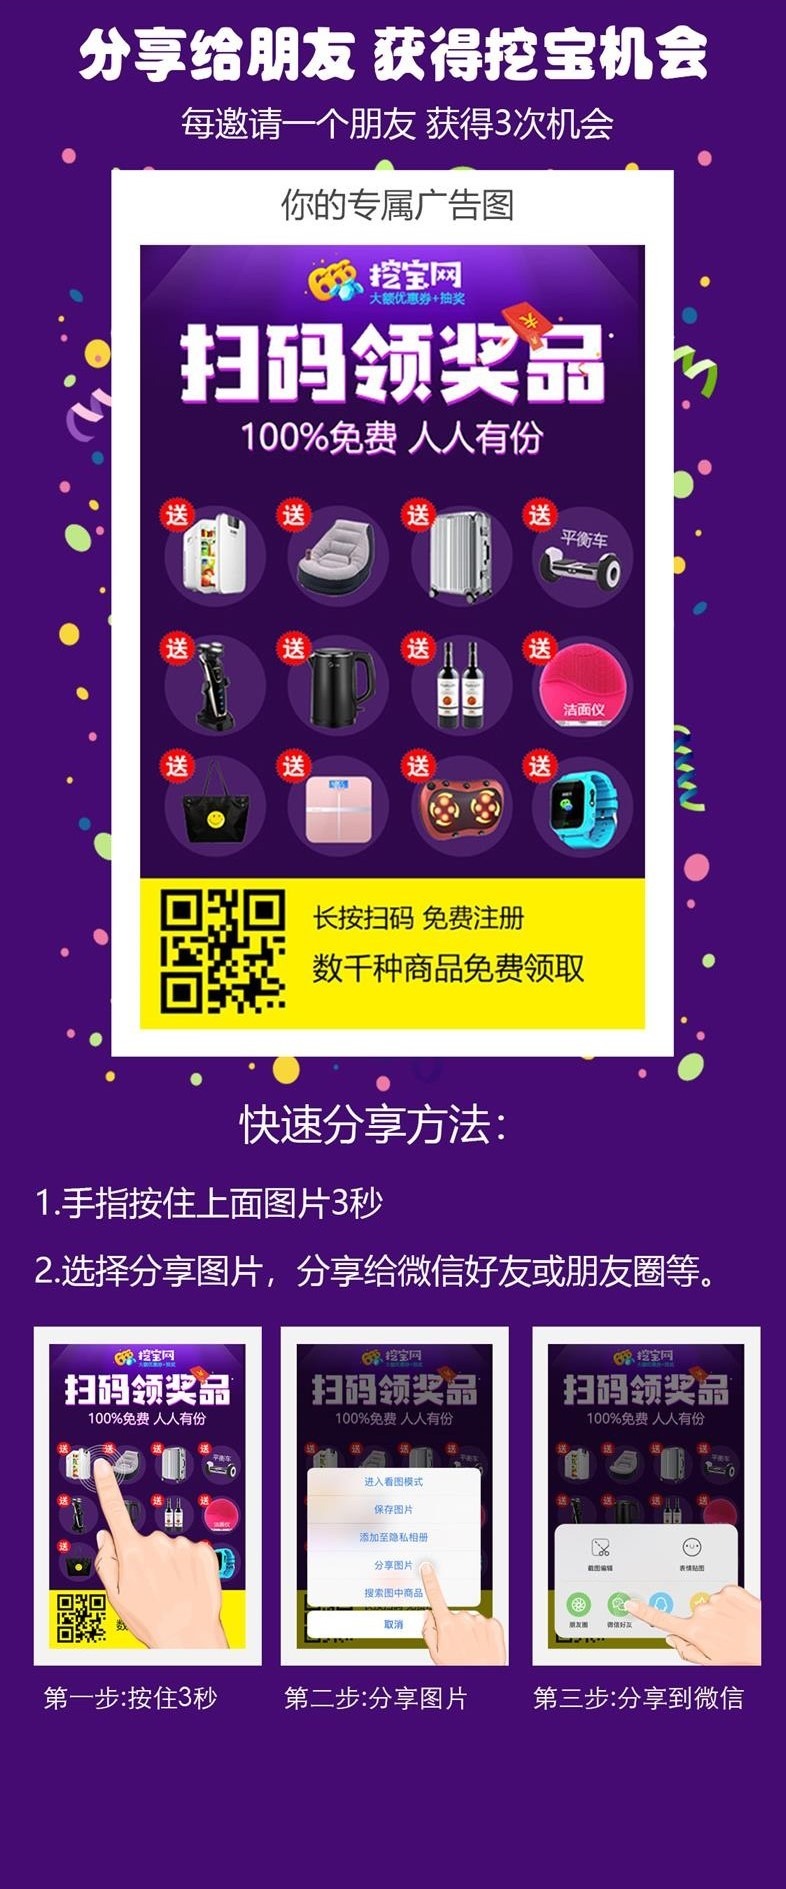
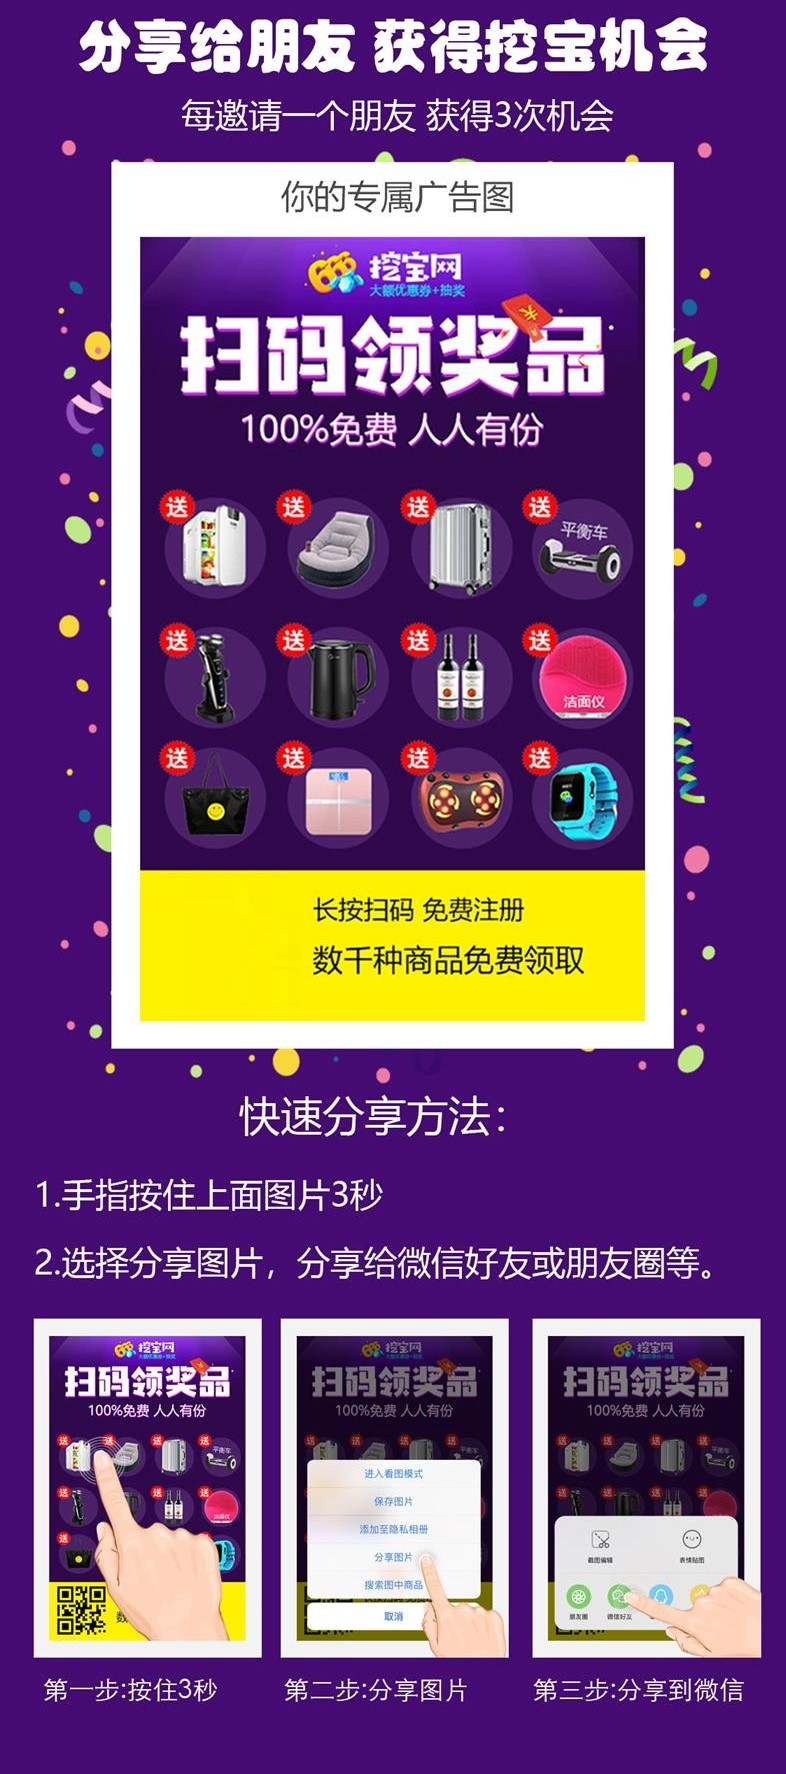
update share

diff --git a/public/client/css/share.css b/public/client/css/share.css
@@ -184,20 +184,21 @@ body {
 	padding-bottom: 10px;
 }
 
-.share {
-	width: 300px;
-	/*height: 100%;*/
-	/*margin: 10px;*/
-	float:center;
-	/*width:50%;*/
-	/*height: 50%;*/
+.share img{
+	width:100%;
+	margin-top: 10px;
+	margin-bottom: 40px;
 }
 
 #qrcode {
 	position: absolute;
 	margin:auto;
-	width:100%;
-	left: 710px;
-	top: 360px;
+	/*width:100%;*/
+
+	/*width:60px;*/
+	/*left: 710px;*/
+	/*top: 500px;*/
+	image-rendering: pixelated;
+
 }
 

diff --git a/resources/views/staradmin/client/share.blade.php b/resources/views/staradmin/client/share.blade.php
@@ -29,13 +29,133 @@ dd(Auth::Guard('member')->user()->affiliate_id)
 		position: absolute;
 		left: -999em;
 	}
+
+	@media only screen and (max-device-width:2000px) {
+	   #qrcode {
+			margin:1280px 50px 50px 220px;
+		}
+
+		img {
+	    	width: 200px;
+		}
+	}
+
+
+	@media only screen and (max-device-width:1990px) {
+	   #qrcode {
+			margin:810px 50px 50px 135px;
+		}
+
+		img {
+	    	width: 130px;
+		}
+	}
+
+
+	@media only screen and (max-device-width:1024px) {
+	   #qrcode {
+			margin:1060px 50px 50px 180px;
+		}
+
+		img {
+	    	width: 165px;
+		}
+	}
+
+	@media only screen and (max-device-width:950px) {
+	   #qrcode {
+			margin:815px 50px 50px 140px;
+		}
+
+		img {
+	    	width: 125px;
+		}
+	}
+
+
+	@media only screen and (max-device-width:800px) {
+	   #qrcode {
+			margin:815px 50px 50px 140px;
+		}
+
+		img {
+	    	width: 125px;
+		}
+	}
+
+	@media only screen and (max-device-width:750px) {
+	   #qrcode {
+			margin:395px 50px 50px 68px;
+		}
+
+		img {
+	    	width: 60px;
+		}
+	}
+
+	@media only screen and (max-device-width:500px) {
+	   #qrcode {
+			margin:437px 50px 50px 75px;
+		}
+
+		img {
+	    	width: 65px;
+		}
+	}
+
+	@media only screen and (max-device-width:414px) {
+	   #qrcode {
+			margin:440px 50px 50px 75px;
+		}
+
+		img {
+	    	width: 65px;
+		}
+	}
+
+	@media only screen and (max-device-width:375px) {
+	   #qrcode {
+			margin:395px 50px 50px 70px;
+		}
+
+		img {
+	    	width: 60px;
+		}
+	}
+
+
+	@media only screen and (max-device-width:360px) {
+	   #qrcode {
+			margin:378px 50px 50px 65px;
+		}
+
+		img {
+	    	width: 60px;
+		}
+	}
+
+	@media only screen and (max-device-width:320px) {
+	   #qrcode {
+			margin:335px 50px 50px 60px;
+		}
+
+		img {
+	    	width: 50px;
+		}
+	}
+
 </style>
+
 <div class="wrapper full-height" style="padding-top: 0px !important; background-color: #450B72">
 	<div class="container center">
-		<!-- <div class="col-xs-4 col-md-3"> -->
-			<div class="wrapper copyurl" id="copyurl" data-clipboard-target="#copy">
-				<div id="qrcode"></div>
-				</div>
+		
+		<div class="wrapper copyurl" id="copyurl" data-clipboard-target="#copy">
+			<div id="qrcode" class="qrcode"></div>
+			<div class="share">
+				<img src="{{ asset('/client/images/8_invitation.jpg') }}">
+			</div>			
+		</div>
+	
 		<span id="copy" class="offscreen url" aria-hidden="true">123</span>
 				<script type="text/javascript">
 					
@@ -59,36 +179,26 @@ dd(Auth::Guard('member')->user()->affiliate_id)
 					{
 						
 						$('#qrcode').html('');
-						var qrcode = new QRCode("qrcode",{
-							// position: relative,
-							//top: 80px,
-							//left: 80px,
-							width: 50,
-							height: 50,
-							//z-index: 1,
-
-							//colorDark : "#000000",
-							//colorLight : "#ffffff",
-							//correctLevel : QRCode.CorrectLevel.H
+						var qrcode = new QRCode("qrcode", {
+						    text: "http://wabao666.com/register/"+affiliate_id,
+						    // width: 60,
+						    // height: 60,
+						    colorDark : "#000000",
+						    colorLight : "#ffffff",
+						    correctLevel : QRCode.CorrectLevel.H
 						});
 						var url = 'http://wabao666.com/register/'+affiliate_id;
 						$('.url').html(url);
-						qrcode.makeCode(url);
+						//qrcode.makeCode(url);
+
 						
 					}
 				</script>
 			
-			<img src="/client/images/8_invitation.jpg" class="share"/>		
-			
-			<!-- <input id="h_affiliate_id" name="h_affiliate_id" type="hidden" value="{{Auth::Guard('member')->user()->affiliate_id}}" /> -->
 			<script type="text/javascript">
 				GenerateCode('{{Auth::Guard('member')->user()->affiliate_id}}');
-				//GenerateCode(90);
 			</script>	
 
-
-			
-		<!-- </div> -->
 	</div>
 </div>
 @endsection

diff --git a/resources/views/staradmin/client/home3.blade.php b/resources/views/staradmin/client/home3.blade.php
@@ -24,14 +24,16 @@
 		<div class="cardHeader">
 			<div class="header">
 				<ul class="dbox top">
-					<li class="dbox0">
-						<!-- @if (isset(Auth::Guard('member')->user()->username))
-							<a href="/member">{{ Auth::Guard('member')->user()->username }}</a>
+					
+						@if (isset(Auth::Guard('member')->user()->username))
+							<a class="title" href="/member" style="color: white;">{{ Auth::Guard('member')->user()->username }}</a>
 						@else
+						<li class="dbox0">
 					  		<a href="/register"><img src="{{ asset('/test/main/images/register.png') }}"></a>
-					  	@endif -->
-					  	<a href="/register"><img src="{{ asset('/test/main/images/register.png') }}"></a>
-				  	</li>					
+					  	@endif
+					  	</li>
+					  	<!-- <a href="/register"><img src="{{ asset('/test/main/images/register.png') }}"></a> -->
+				  						
 					<li class="dbox1 logo"><img src="{{ asset('/test/main/images/logo.png') }}"></li>
 					<li class="dbox0"><a href="#"><img src="{{ asset('/test/main/images/follow.png') }}"></a></li>
 				</ul>
@@ -40,8 +42,10 @@
 						<div class="dbox1 txt">
 							@if(isset($category))
 								@foreach($category as $cat)
-									@if ($cat->number == 1)
-										<a class="on" href="/cs/{{$cat->id}}">{{$cat->display_name}}</a>
+
+									@if ($loop->first)
+										<!-- <a class="on" href="/cs/{{$cat->id}}">{{$cat->display_name}}</a> -->
+										<a href="/cs/{{$cat->id}}">{{$cat->display_name}}</a>
 									@else
 										<a href="/cs/{{$cat->id}}">{{$cat->display_name}}</a>
 									@endif
@@ -153,7 +157,7 @@
 								
 								@foreach($vouchers as $item)
 									<li class="dbox">
-										<a class="dbox0 imgBox" href="#" >
+										<a class="dbox0 imgBox" href="#" data-t_id="{{$item->id}}" >
 											<img src="{{$item->product_picurl}}_460x460Q90.jpg" alt="{{$item->product_name}}">
 										</a>
 										<div class="dbox1">
@@ -293,7 +297,9 @@
 			});
 
 
-			// $('.product .list-2 .dbox a.dbox0.imgBox').click((e) => {
+			// $('.product .list-2 .dbox a.dbox0').click((e) => {
+
+			// 	alert($(e.target).data('t_id'));
 
 			// 	item_id = $(e.target).data('t_id');
 			// 	product_name = $(e.target).data('t_product_name');

diff --git a/app/Http/Controllers/Api/VoucherController.php b/app/Http/Controllers/Api/VoucherController.php
@@ -34,14 +34,16 @@ class VoucherController extends Controller
         if ($cid)
 		{
 			$vouchers = Voucher::latest()->where('category' ,'=' , $cid)->paginate(5);
+			$vouchers_total = Voucher::where('category' ,'=' , $cid)->count();
 		}
 		else{
 			$vouchers = Voucher::latest()->paginate(5);
+			$vouchers_total = Voucher::count();
 		}
 		
 		$category = Category::all();
 
-		$total = ['redeemed' => redeemed::count(), 'vouchers' => Voucher::count()];
+		$total = ['redeemed' => redeemed::count(), 'vouchers' => $vouchers_total];
 
 
         //return view('client.home', compact('vouchers','category'));		

diff --git a/resources/lang/ci/dingsu.php b/resources/lang/ci/dingsu.php
@@ -336,6 +336,6 @@ return [
 	'faq' => 'faq',
 	'faq_added_success_msg' => 'Faq added successfully',
 	'faq_update_success_msg' => 'Faq successfully Updated',
-	'copied' => 'Copied',
-	'text_copied' => 'The text has been copied.',
+	'copied' => '复制',
+	'text_copied' => '分享给朋友获得挖宝机会。',
 ];
